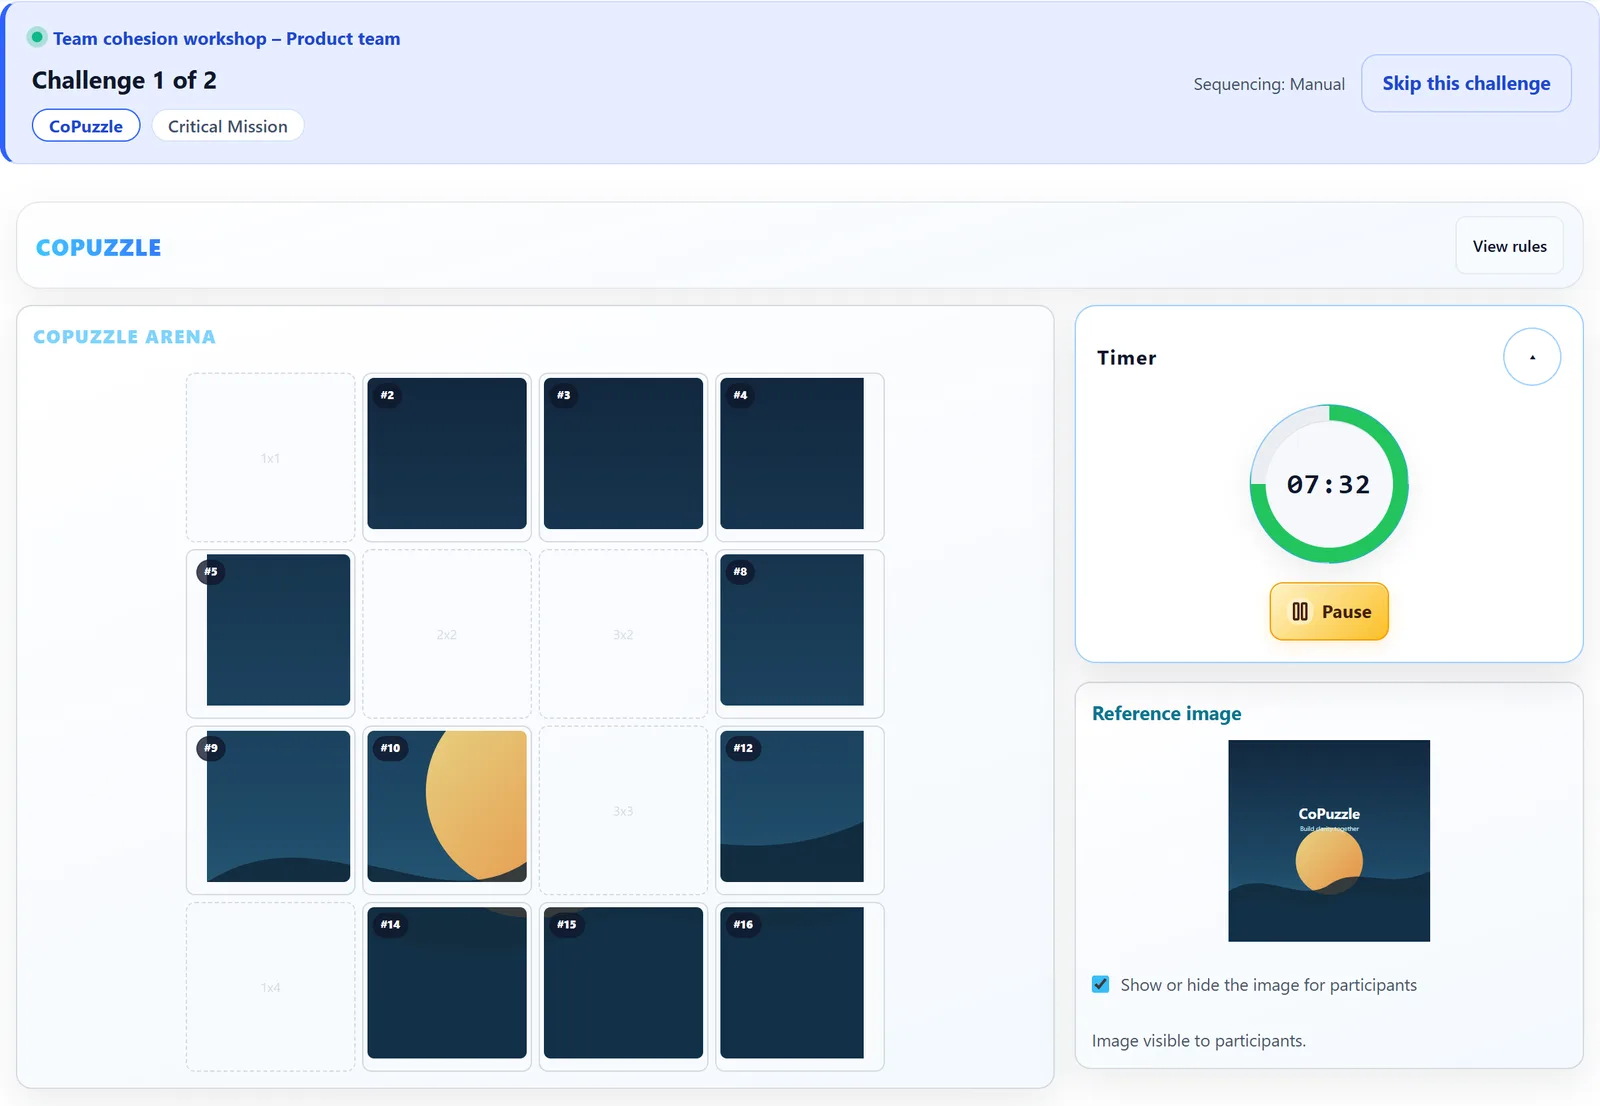
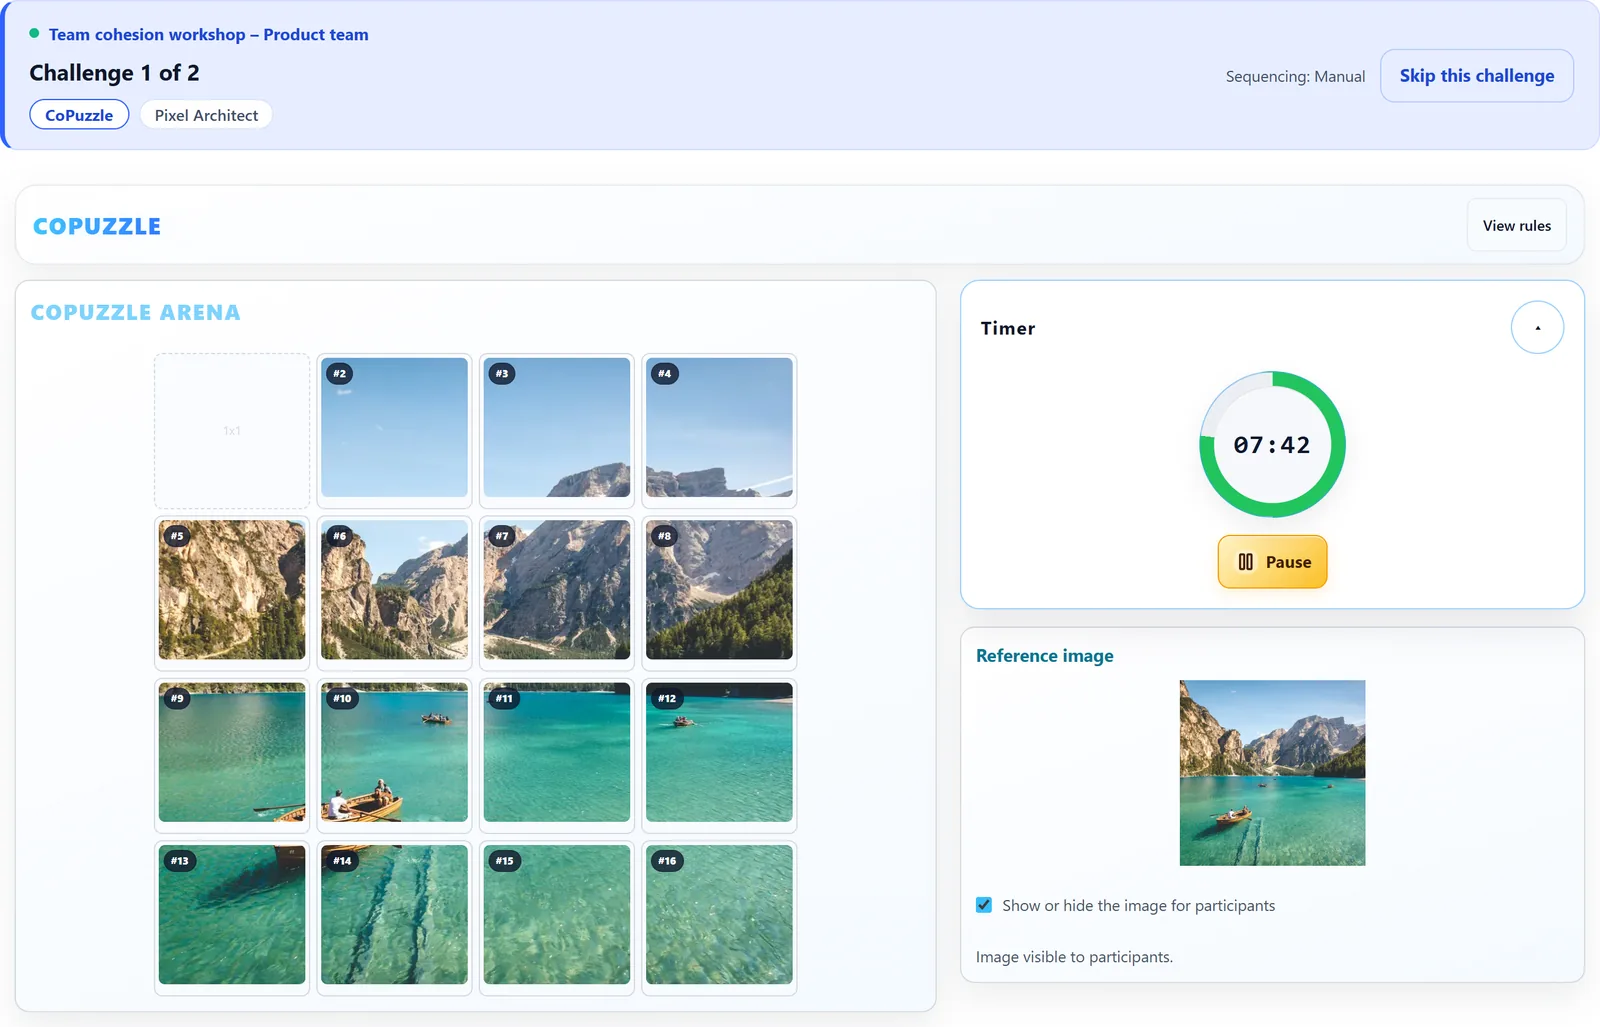
feat(demo): use a real photo for the CoPuzzle demo and hero capture
- Demo CoPuzzle now uses a lake photo (Lago di Braies, Unsplash license)
  instead of the placeholder sunrise SVG.
- Recapture the FR/EN hero facilitator view with the new photo and
  update the image height (1600x1027).

diff --git a/components/Landing/LandingHero.js b/components/Landing/LandingHero.js
@@ -94,7 +94,7 @@ export default function LandingHero({
                   src={heroCaptureSrc(locale)}
                   alt={heroCaptureAlt(locale)}
                   width={1600}
-                  height={1106}
+                  height={1027}
                   priority
                   sizes="(max-width: 1024px) 92vw, 46rem"
                   className="landing-hero-product-image"

diff --git a/components/Landing/LandingPreviewModal.js b/components/Landing/LandingPreviewModal.js
@@ -38,7 +38,7 @@ export default function LandingPreviewModal({ locale, isOpen, onClose, fallback 
           src={heroCaptureSrc(locale)}
           alt={heroCaptureAlt(locale)}
           width={1600}
-          height={1106}
+          height={1027}
           className="landing-preview-modal__image"
         />
       </div>
